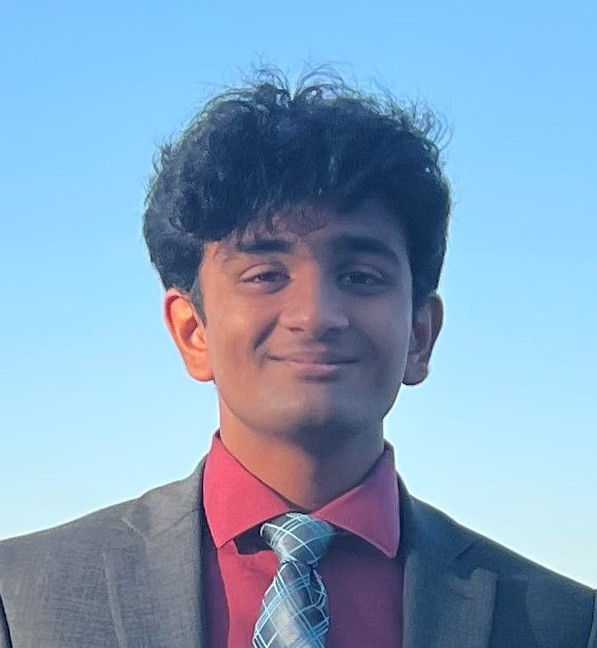
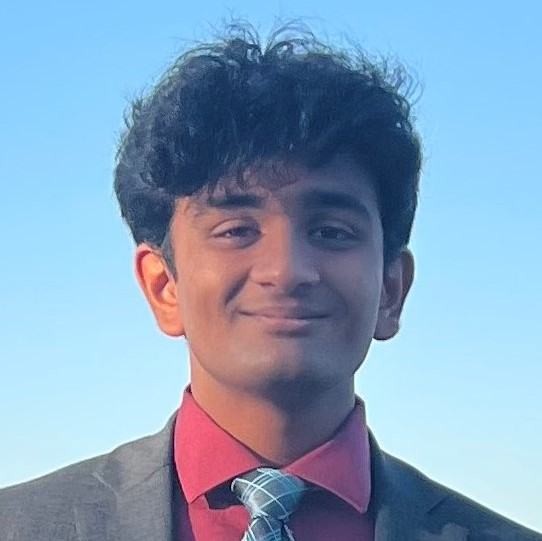
image tweaks

Changed region(s): [[0.0, 0.0296, 1.0, 1.0], [0.3542, 0.2662, 0.3838, 0.2957], [0.1476, 0.976, 0.1771, 1.0]]

diff --git a/index.html b/index.html
@@ -75,7 +75,7 @@
                         marketing world. </p>
                 </div>
                 <div class="col d-none d-lg-block">
-                    <img class="img-fluid" src="assets/lab.jpeg" alt="Lab picture">
+                    <img class="img-fluid" src="assets/intro.jpg" alt="Lab picture">
                 </div>
             </div>
         </div>
